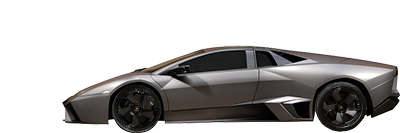
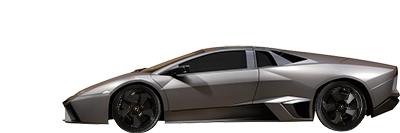
Reduced car frames, adjusted car timing

Changed region(s): [[0.78, 0.6015, 0.93, 0.9925], [0.27, 0.6617, 0.42, 1.0]]

diff --git a/Frogger/src/CharacterCar.java b/Frogger/src/CharacterCar.java
@@ -38,11 +38,6 @@ public class CharacterCar {
 						Toolkit.getDefaultToolkit().getImage("Animations/Lambo/lambo004.png"),
 						Toolkit.getDefaultToolkit().getImage("Animations/Lambo/lambo005.png"),
 						Toolkit.getDefaultToolkit().getImage("Animations/Lambo/lambo006.png"),
-						Toolkit.getDefaultToolkit().getImage("Animations/Lambo/lambo007.png"),
-						Toolkit.getDefaultToolkit().getImage("Animations/Lambo/lambo008.png"),
-						Toolkit.getDefaultToolkit().getImage("Animations/Lambo/lambo009.png"),
-						Toolkit.getDefaultToolkit().getImage("Animations/Lambo/lambo010.png"),
-						Toolkit.getDefaultToolkit().getImage("Animations/Lambo/lambo011.png"),
 						Toolkit.getDefaultToolkit().getImage("Animations/Lambo/lamboNoLambo.png")};
 				
 			

diff --git a/Frogger/src/Timers.java b/Frogger/src/Timers.java
@@ -106,7 +106,7 @@ public class Timers {
 				
 				if(car2.getPositionX()<=-439) {
 					
-					car2.setPositionX(800);
+					car2.setPositionX(1600);
 					
 				}
 				
@@ -150,7 +150,7 @@ public class Timers {
 					
 				counterCarFrame++;
 						
-				if(counterCarFrame==10) {
+				if(counterCarFrame==5) {
 					
 					counterCarFrame=0;
 				}

diff --git a/Frogger/src/Gui.java b/Frogger/src/Gui.java
@@ -14,7 +14,7 @@ public class Gui implements Runnable{
 	
 	private JFrame frame;
 	CharacterFrog frog = new CharacterFrog(500,670,0);
-	CharacterCar car = new CharacterCar(800,500,0);
+	CharacterCar car = new CharacterCar(1600,500,0);
 	MenuObjects mo = new MenuObjects();
 	Boxes bx = new Boxes();
 	private JLabel startGame=new JLabel("False");

diff --git a/Frogger/src/DrawingBoard.java b/Frogger/src/DrawingBoard.java
@@ -230,7 +230,7 @@ public class DrawingBoard extends JPanel {
 						t.animations.stop();
 						t.background.stop();
 						isFrogDead=false;
-						car.setFrame(11);
+						car.setFrame(6);
 						
 						
 						// if second timer is done with countound on game ending screen it will revert values to orginial state
